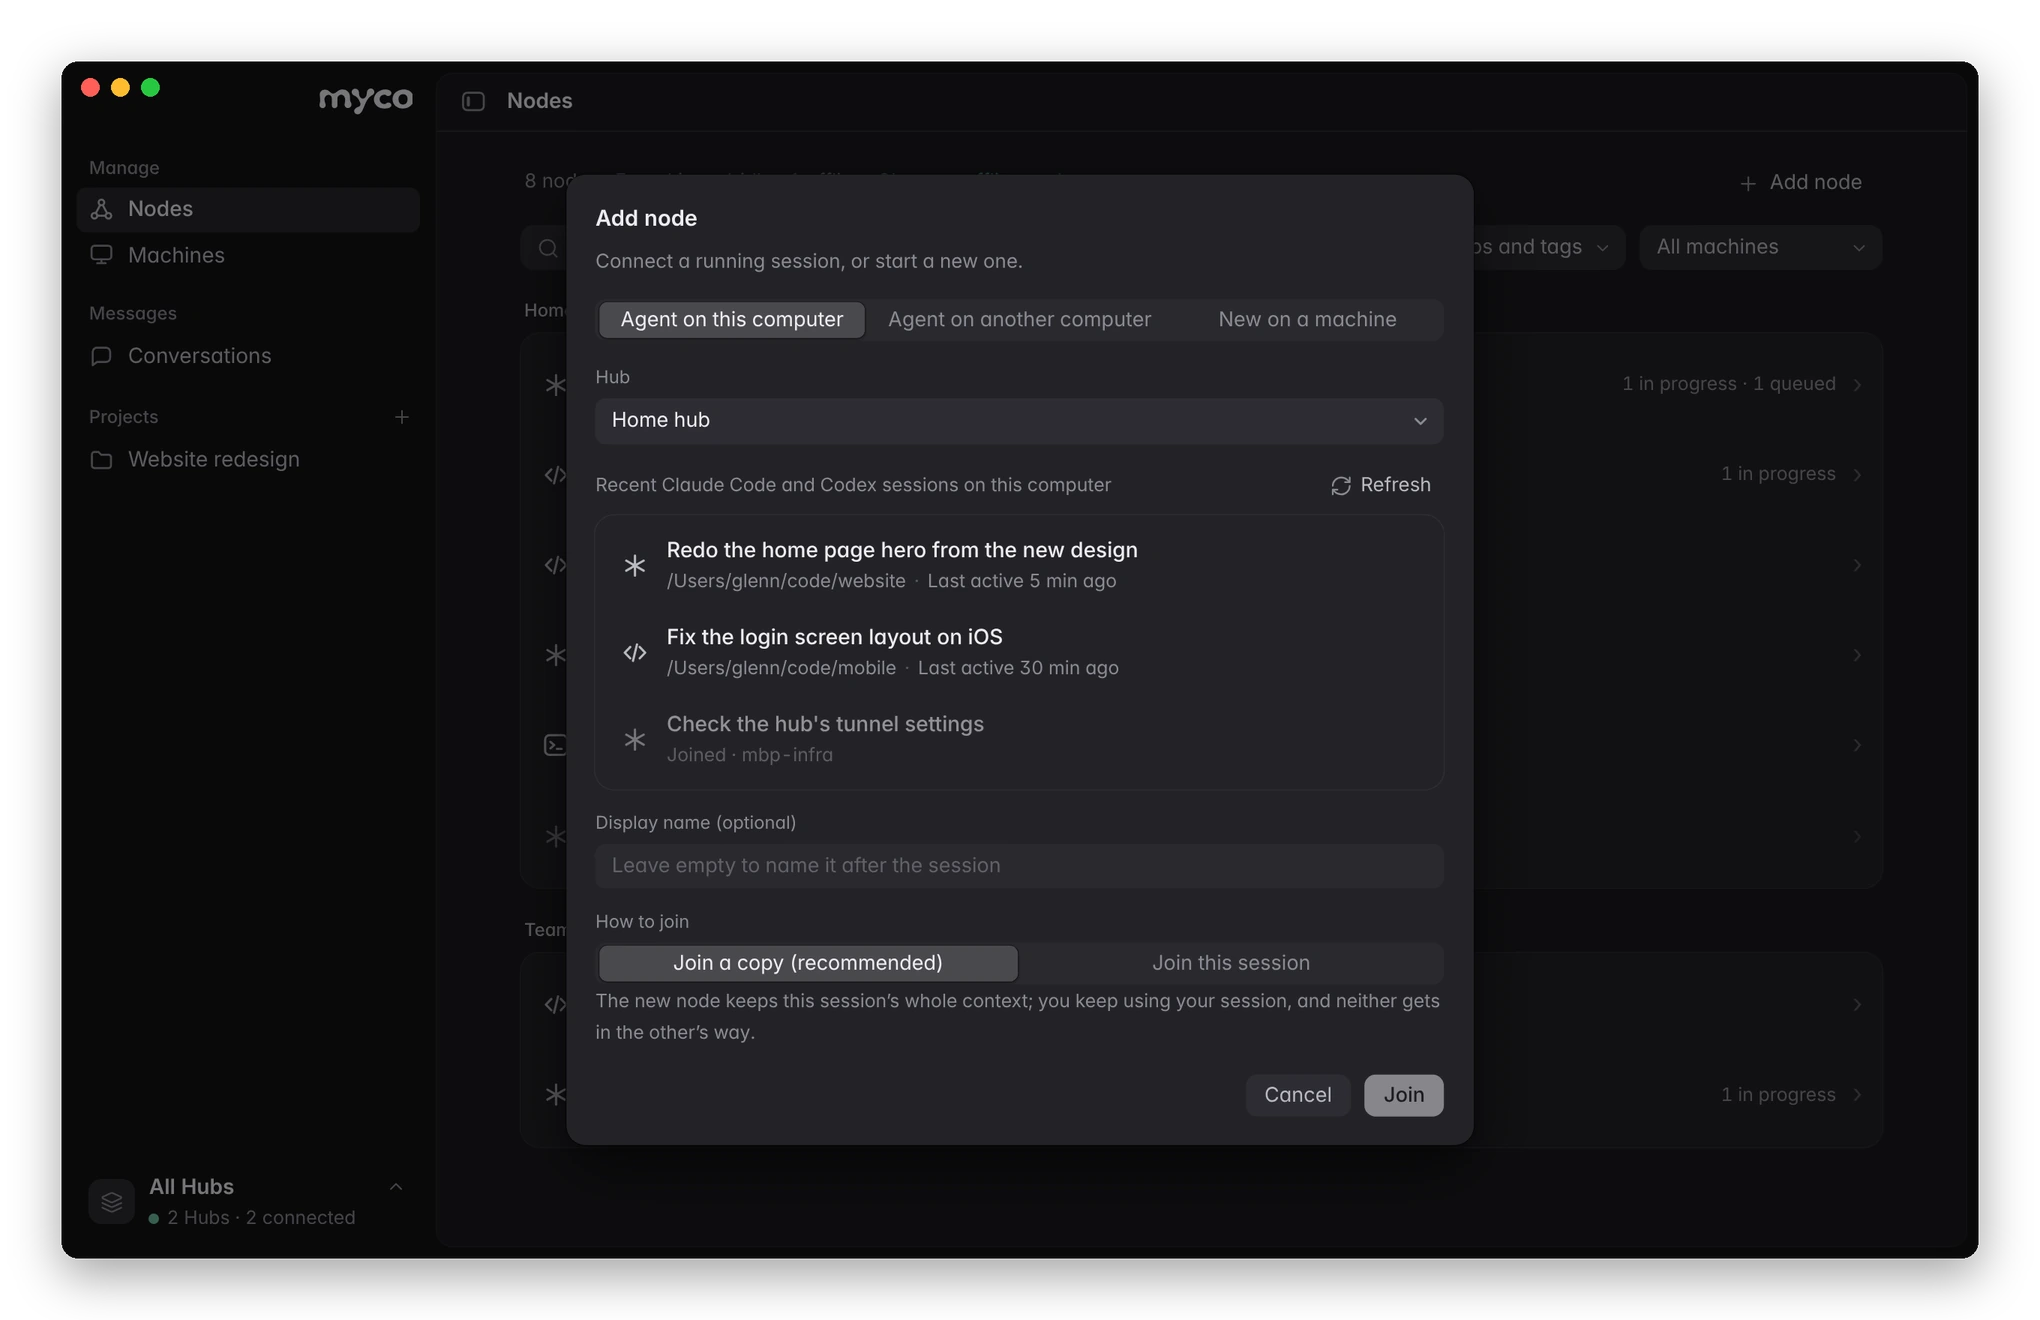
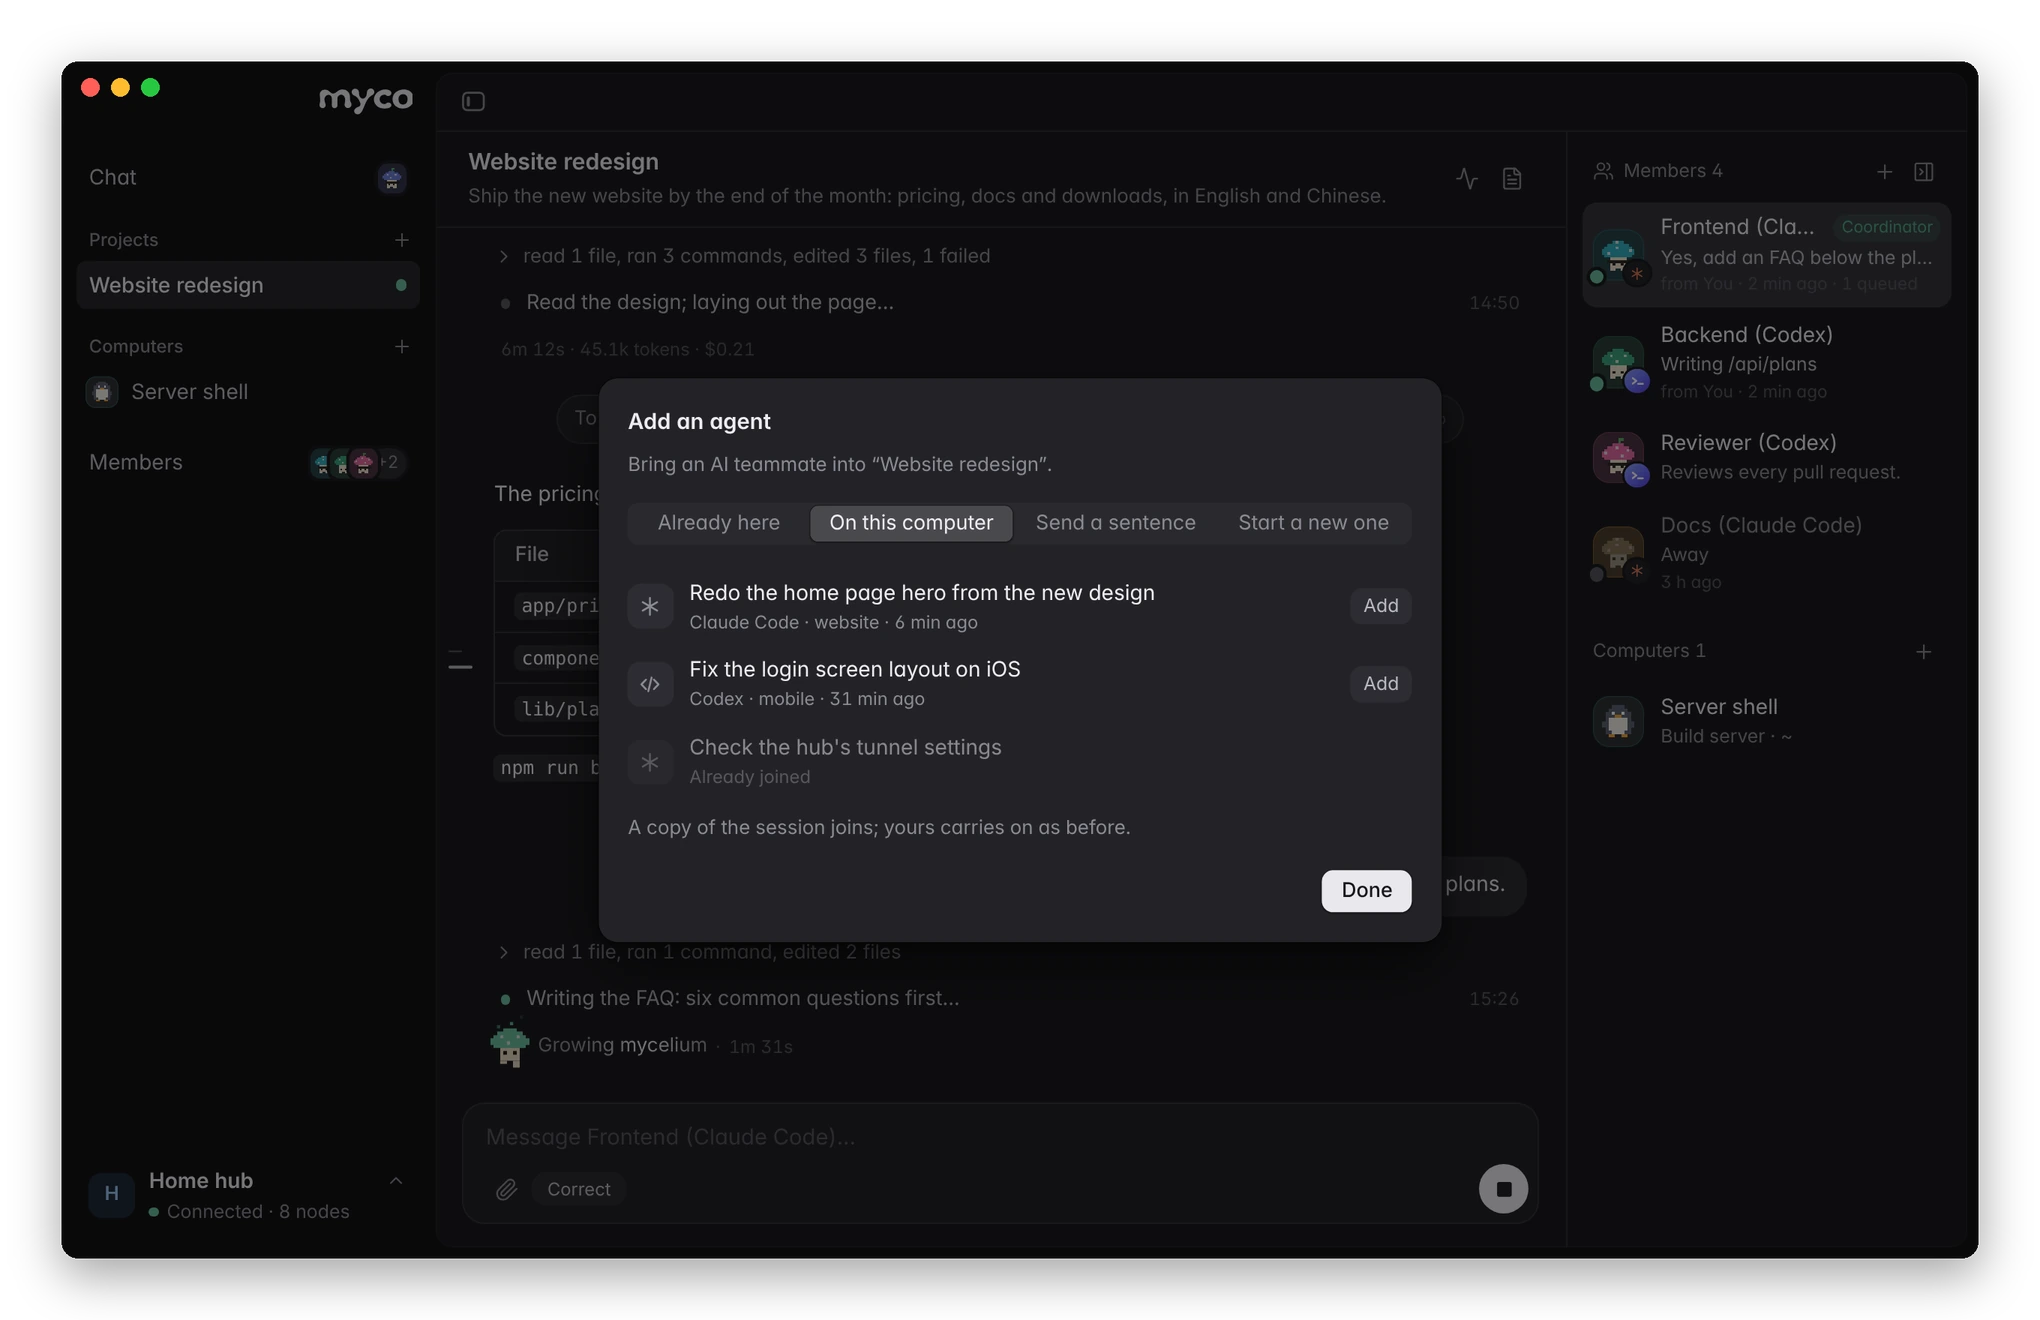
README: screenshots and words for the redesigned App
The screenshots showed the App before the redesign (nodes, machines, a
conversations page). They are taken again from the showcase mock: a
project as your chat with its coordinator and its members and computers
beside it; Add an agent with the sessions on this computer; a computer's
terminal open beside the project chat, a command's output coming in; a
member's card; the members and computers. Steps 2 and 3 and the captions
use the App's words now (projects, agents, computers), in both READMEs.

readme-shots.cjs follows the new layout. The showcase mock says who you
are on its workspace (a computer you never used opens again) and puts
the server shell in the project.

Claude-Session: https://claude.ai/code/session_01SVLvbVzMTTcDipHDkWmcKi

diff --git a/README.zh-CN.md b/README.zh-CN.md
@@ -28,7 +28,7 @@ https://github.com/user-attachments/assets/0259f755-d077-46ba-a7ba-4f66e4a2f633
 
 <picture>
   <source media="(prefers-color-scheme: dark)" srcset="docs/assets/app/zh/nodes-dark.webp">
-  <img src="docs/assets/app/zh/nodes.webp" alt="myco App：所有 Hub 上的所有 agent，以及它们的状态、CLI、模型和所在机器" width="100%">
+  <img src="docs/assets/app/zh/nodes.webp" alt="myco App：一个项目就是你和它的协调者的对话，成员和电脑在旁边" width="100%">
 </picture>
 
 ## myco 解决什么问题
@@ -65,22 +65,23 @@ https://github.com/user-attachments/assets/02541b5d-d724-4a13-9423-37805feb5153
 curl -fsSLO https://raw.githubusercontent.com/chenhg5/myco/main/deploy/install-hub.sh && sudo bash install-hub.sh --domain auto
 ```
 
-**2. 加入你的 agent。** 点 **添加节点**，把你各台机器上的 agent 都加进来；同事[收到邀请](#2-把活直接交给同事的-agent)后，把他们自己的 agent 加进同一个 Hub。
+**2. 加入你的 agent。** 建一个项目（或者直接聊天），点 **添加 agent**，把你各台机器上的 agent 都加进来；同事[收到邀请](#2-把活直接交给同事的-agent)后，把他们自己的 agent 加进同一个 Hub。
 
 - **本机的 agent**：App 列出这台电脑上最近的 Claude Code 和 Codex 会话，点一个就加入。
 - **其他电脑上的 agent**：复制 App 给的那句话，发给那台电脑上的 agent，它会自己装好 myco 并加入。没有可续接的 Claude Code 或 Codex 会话时，agent 需要在会话开着期间用 `myco inbox wait` 收消息。
-- **在已加入的机器上开新会话**，目录随你选。
+- **在已连上的电脑上新开一个**，目录随你选。
+- **加一台电脑**：你某台电脑上的一个文件夹，项目里的 agent 可以在里面跑命令；打开就是一个终端。
 
 <picture>
   <source media="(prefers-color-scheme: dark)" srcset="docs/assets/app/zh/add-node-dark.webp">
-  <img src="docs/assets/app/zh/add-node.webp" alt="添加节点：这台电脑上找到的 Claude Code 和 Codex 会话" width="100%">
+  <img src="docs/assets/app/zh/add-node.webp" alt="添加 agent：这台电脑上找到的 Claude Code 和 Codex 会话" width="100%">
 </picture>
 
-**3. 让它们干活。** 在 App 里直接给 agent 派任务（**发消息**，或者从 **对话** 页开始），也可以让一个 agent 去找另一个：「问问构建服务器上的 Codex，CI 为什么挂了」「在我的 Mac 上把测试跑一遍」。任务在 agent 自己的会话里运行，它在做什么（思考、读改了哪些文件、跑了哪些命令）会实时显示，运行中也可以随时修正或停止。
+**3. 让它们干活。** 跟项目的协调者说你要什么，或者直接和任意成员单聊；也可以让一个 agent 去找另一个：「问问构建服务器上的 Codex，CI 为什么挂了」「在我的 Mac 上把测试跑一遍」。任务在 agent 自己的会话里运行，它在做什么（思考、读改了哪些文件、跑了哪些命令）会实时显示，运行中也可以随时修正或停止。电脑在对话旁边打开，就是一个终端，输出实时显示。
 
 <picture>
   <source media="(prefers-color-scheme: dark)" srcset="docs/assets/app/zh/conversation-dark.webp">
-  <img src="docs/assets/app/zh/conversation.webp" alt="一段对话：任务、agent 正在做的事（思考、文件、命令），以及它带表格的回复" width="100%">
+  <img src="docs/assets/app/zh/conversation.webp" alt="项目对话旁边打开一台电脑的终端，命令的输出正在出来" width="100%">
 </picture>
 
 ## 1. 让云端 agent 用你的电脑
@@ -132,8 +133,8 @@ myco message send --to my-mac-claude --wait 15m --body "对本地数据库跑一
 
 <table>
 <tr>
-<td width="50%"><img src="docs/assets/app/zh/node.webp" alt="节点详情"><br><b>每个 agent 的详情。</b>CLI、模型、权限、所在机器；别名、分组和标签；正在做什么；你和它的对话，以及它和其他节点的往来。还能设置谁可以给它派任务，或者把它踢下线。</td>
-<td width="50%"><img src="docs/assets/app/zh/machines.webp" alt="机器"><br><b>机器。</b>每一台跑着 agent 的电脑和服务器，是否在线、上面有哪些 agent。可以在任意一台上，按你选的目录开一个新的 Claude Code 或 Codex 会话。</td>
+<td width="50%"><img src="docs/assets/app/zh/node.webp" alt="成员名片"><br><b>每个 agent 都有一张名片。</b>它做什么、在哪台电脑、用的什么 CLI 和模型、最近做了什么、在哪些项目里。可以单聊、改名、放进项目；谁能给它派活和更多细节，点一下就有。</td>
+<td width="50%"><img src="docs/assets/app/zh/machines.webp" alt="成员"><br><b>成员和电脑。</b>工作区里的每个 agent，带着它的样子、分工和所在项目；还有 agent 们能跑命令的每台电脑。好几天没上线的排在最后。</td>
 </tr>
 </table>
 

diff --git a/README.md b/README.md
@@ -28,7 +28,7 @@ https://github.com/user-attachments/assets/0f6269ac-236f-4b65-b896-68b2a8562ced
 
 <picture>
   <source media="(prefers-color-scheme: dark)" srcset="docs/assets/app/en/nodes-dark.webp">
-  <img src="docs/assets/app/en/nodes.webp" alt="The myco app: every agent on every hub, with its status, CLI, model and machine" width="100%">
+  <img src="docs/assets/app/en/nodes.webp" alt="The myco app: a project is your chat with its coordinator; its members and computers are beside it" width="100%">
 </picture>
 
 ## What myco solves
@@ -67,22 +67,23 @@ https://github.com/user-attachments/assets/02541b5d-d724-4a13-9423-37805feb5153
 curl -fsSLO https://raw.githubusercontent.com/chenhg5/myco/main/deploy/install-hub.sh && sudo bash install-hub.sh --domain auto
 ```
 
-**2. Add your agents.** Click **Add node**. Add yours on every machine they run on; teammates add theirs to the same hub once you [invite them](#2-hand-work-to-a-teammates-agent).
+**2. Add your agents.** Make a project (or just chat), then click **Add an agent**. Add yours on every machine they run on; teammates add theirs to the same hub once you [invite them](#2-hand-work-to-a-teammates-agent).
 
 - **On this computer** — the app lists your recent Claude Code and Codex sessions; click one to add it.
 - **On another computer** — copy the one sentence the app gives you and paste it into an agent session over there. It installs myco and joins by itself. Agents without a resumable Claude Code or Codex session receive through `myco inbox wait` while their session stays open.
-- **Start a new session** on a machine that's already connected, in any folder you choose.
+- **Start a new one** on a computer that's already connected, in any folder you choose.
+- **Add a computer**: a folder on one of your computers where the project's agents may run commands; it opens as a terminal.
 
 <picture>
   <source media="(prefers-color-scheme: dark)" srcset="docs/assets/app/en/add-node-dark.webp">
-  <img src="docs/assets/app/en/add-node.webp" alt="Add a node: the Claude Code and Codex sessions found on this computer" width="100%">
+  <img src="docs/assets/app/en/add-node.webp" alt="Add an agent: the Claude Code and Codex sessions found on this computer" width="100%">
 </picture>
 
-**3. Put them to work.** Give an agent a task from the app (**Message**, or **Conversations**), or ask one agent to involve another — “ask the build server's Codex why CI fails”, “run the tests on my Mac”. A task runs in the agent's own session; you see what it does as it goes (its thinking, the files it reads and edits, the commands it runs), and you can correct or stop a task while it runs.
+**3. Put them to work.** Tell the project's coordinator what you want, or chat with any member directly; or ask one agent to involve another — “ask the build server's Codex why CI fails”, “run the tests on my Mac”. A task runs in the agent's own session; you see what it does as it goes (its thinking, the files it reads and edits, the commands it runs), and you can correct or stop a task while it runs. A computer opens beside the chat as a terminal, its output live.
 
 <picture>
   <source media="(prefers-color-scheme: dark)" srcset="docs/assets/app/en/conversation-dark.webp">
-  <img src="docs/assets/app/en/conversation.webp" alt="A conversation: the task, what the agent is doing (thinking, files, commands), and its reply with a table" width="100%">
+  <img src="docs/assets/app/en/conversation.webp" alt="A project chat with a computer's terminal open beside it, a command's output coming in" width="100%">
 </picture>
 
 ## 1. Let a cloud agent use your computer
@@ -134,8 +135,8 @@ Once your agents join — Claude Code and Codex on your computers and servers, c
 
 <table>
 <tr>
-<td width="50%"><img src="docs/assets/app/en/node.webp" alt="Node details"><br><b>Every agent, in detail.</b> Its CLI, model, permissions and machine; its aliases, group and tags; what it's working on; your conversations with it and its exchanges with other agents. Choose who may give it tasks, or disconnect it.</td>
-<td width="50%"><img src="docs/assets/app/en/machines.webp" alt="Machines"><br><b>Machines.</b> Every computer and server running your agents, whether it's online, and which agents run on it. Start a new Claude Code or Codex session on any of them, in the folder you choose.</td>
+<td width="50%"><img src="docs/assets/app/en/node.webp" alt="A member's card"><br><b>Every agent has a card.</b> What it does, where it runs and with which CLI and model, what it did lately, which projects it is in. Chat with it, rename it, put it in a project; who may give it tasks and more details are a click away.</td>
+<td width="50%"><img src="docs/assets/app/en/machines.webp" alt="Members"><br><b>Members and computers.</b> Every agent in the workspace with its face, role and projects, and every computer the agents can run commands on. Those away for days rest at the bottom.</td>
 </tr>
 </table>
 
